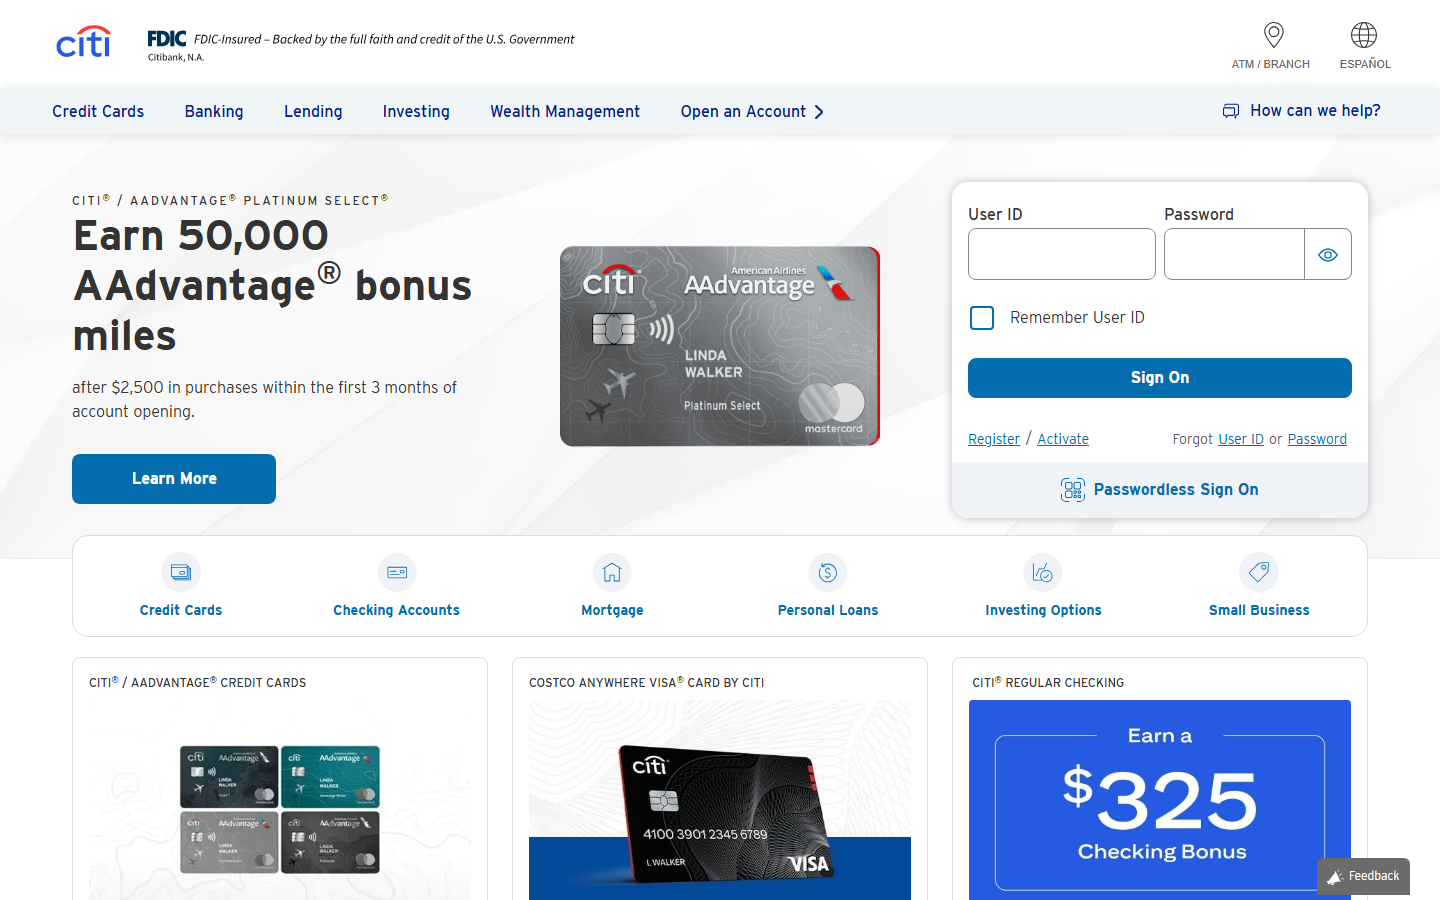
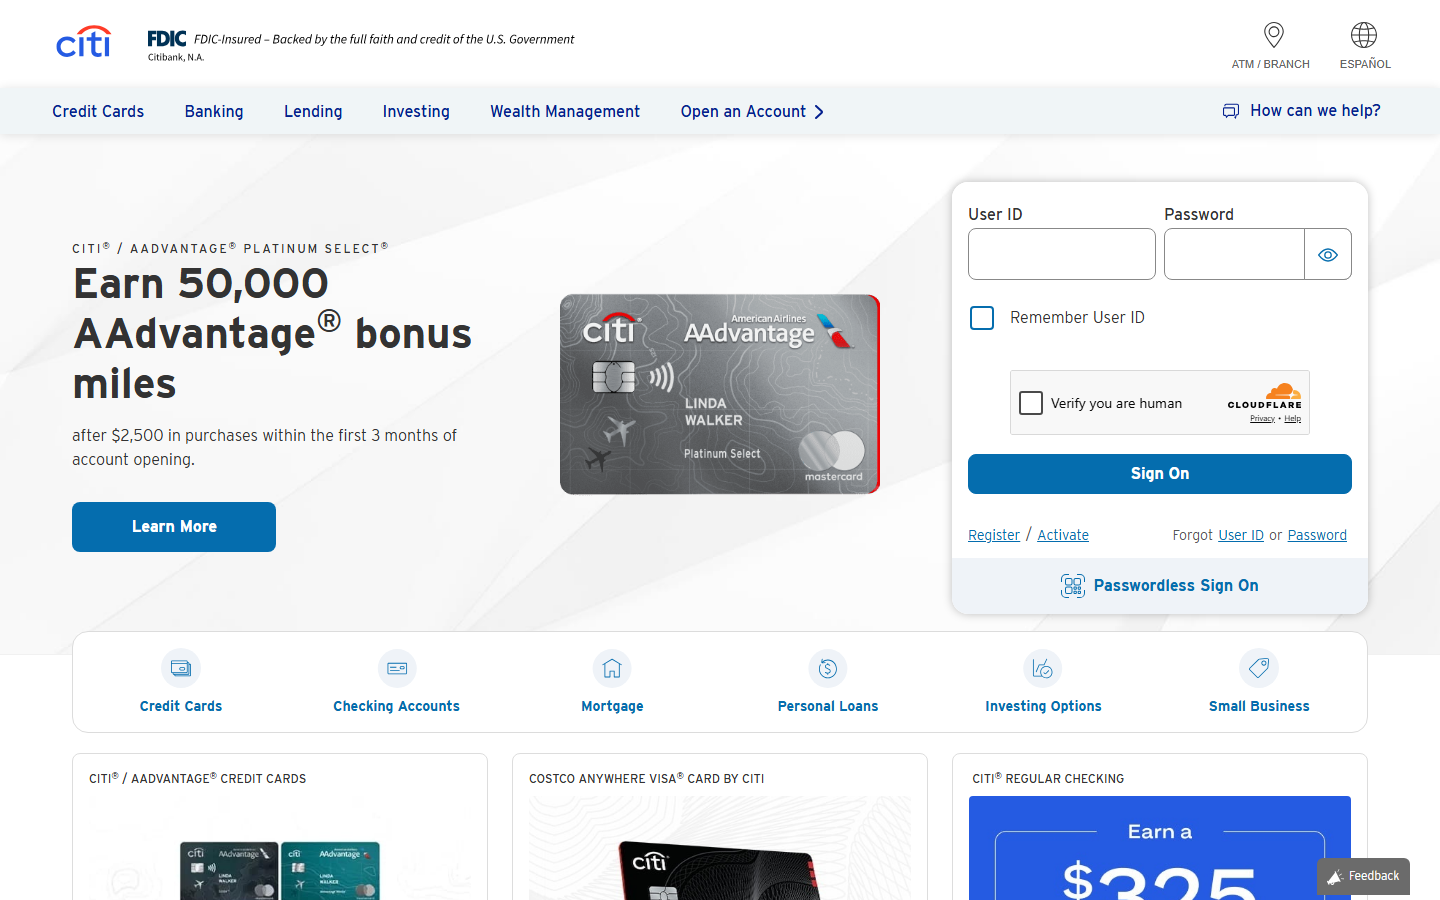
Add Turnstile verification + e2e test scripts; final production keys restored

diff --git a/assert-banner-placement.js b/assert-banner-placement.js
@@ -54,7 +54,10 @@ const EXPECTED = [
     if (!e || !a) { console.log(`[${i}] MISSING`); fails++; continue; }
     const fileOk = e.file === a.file;
     const sizeOk = Math.abs(e.w - a.w) <= 2 && Math.abs(e.h - a.h) <= 2;
-    const posOk = Math.abs(e.top - a.top) <= 30;
+    // The Turnstile widget in the sign-on panel makes the hero row taller than
+    // on citi.com, so banners sit slightly lower. Everything else (file, size,
+    // order) must match exactly.
+    const posOk = Math.abs(e.top - a.top) <= 110;
     const altOk = a.alt.includes(e.alt.slice(0, 25));
     const imgOk = !a.broken;
     const ok = fileOk && sizeOk && posOk && altOk && imgOk;
